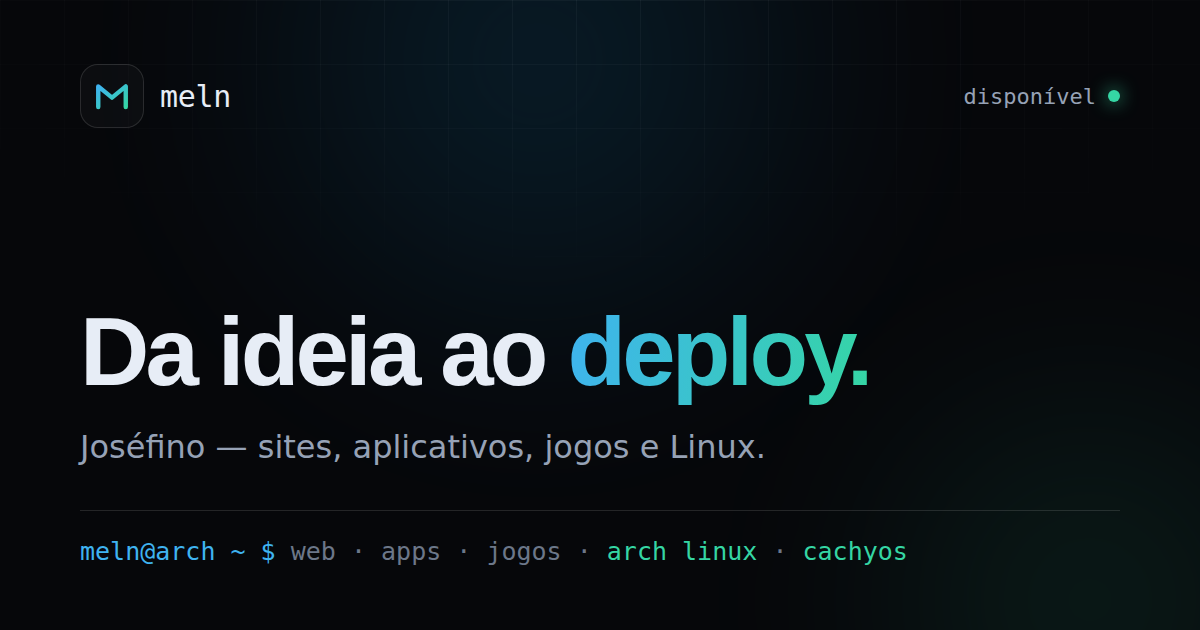
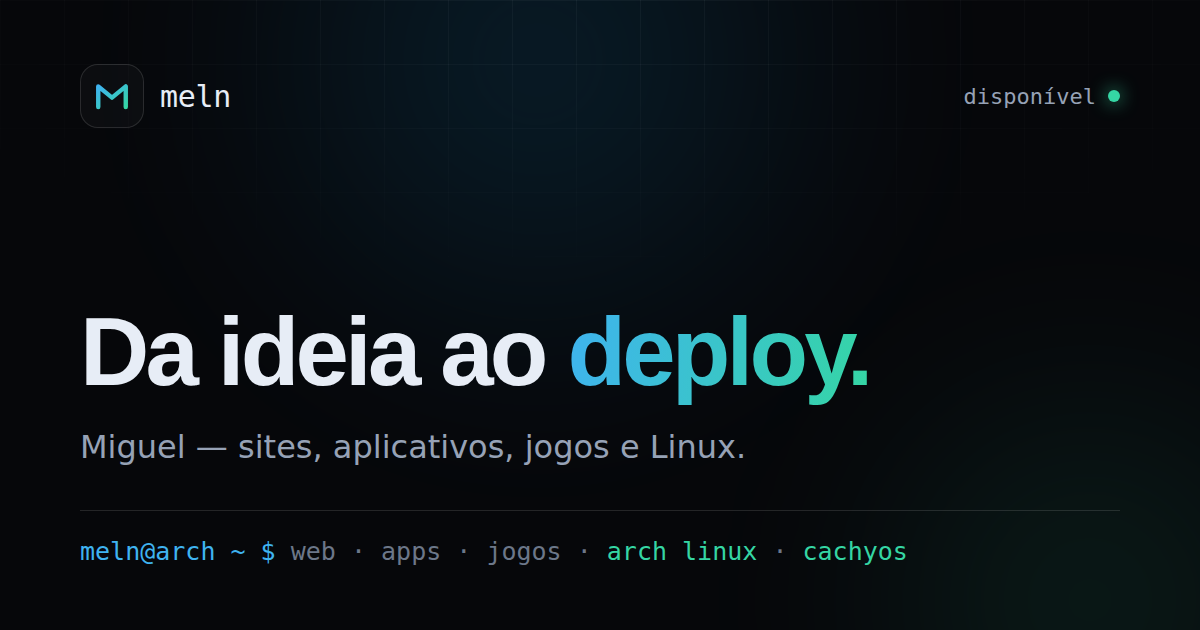
Trocar o nome apresentado para Miguel
Substitui "Joséfino" por "Miguel" em todo o texto visível e nos
metadados: title, description, author, Open Graph/Twitter, JSON-LD,
bloco de identidade do hero, terminal, rodapé e mensagem inicial do
WhatsApp. A imagem de partilha (assets/og-image.png) foi gerada de novo
com o nome novo. O endereço de e-mail fica como está.

Claude-Session: https://claude.ai/code/session_01Gn34ECZL4nzcdZR946JS7z

Changed region(s): [[0.0617, 0.6937, 0.6475, 0.754]]

diff --git a/index.html b/index.html
@@ -4,9 +4,9 @@
 <meta charset="utf-8">
 <meta name="viewport" content="width=device-width, initial-scale=1">
 
-<title>Joséfino (Meln) — Desenvolvedor Web, Apps e Jogos</title>
-<meta name="description" content="Joséfino (Meln) — desenvolvedor de sites, aplicativos e jogos, com experiência em Linux baseado em Arch (Arch Linux e CachyOS). Veja os projetos e fale comigo por WhatsApp ou e-mail.">
-<meta name="author" content="Joséfino (Meln)">
+<title>Miguel (Meln) — Desenvolvedor Web, Apps e Jogos</title>
+<meta name="description" content="Miguel (Meln) — desenvolvedor de sites, aplicativos e jogos, com experiência em Linux baseado em Arch (Arch Linux e CachyOS). Veja os projetos e fale comigo por WhatsApp ou e-mail.">
+<meta name="author" content="Miguel (Meln)">
 <meta name="theme-color" content="#06070A">
 <meta name="color-scheme" content="dark">
 
@@ -17,7 +17,7 @@
 <meta property="og:type" content="website">
 <meta property="og:locale" content="pt_PT">
 <meta property="og:site_name" content="Meln — Portfólio">
-<meta property="og:title" content="Joséfino (Meln) — Desenvolvedor Web, Apps e Jogos">
+<meta property="og:title" content="Miguel (Meln) — Desenvolvedor Web, Apps e Jogos">
 <meta property="og:description" content="Sites, aplicativos, jogos e sistemas Linux baseados em Arch. Da ideia ao deploy.">
 <meta property="og:url" content="https://mello13256.github.io/VOU/">
 <meta property="og:image" content="https://mello13256.github.io/VOU/assets/og-image.png">
@@ -25,7 +25,7 @@
 <meta property="og:image:height" content="630">
 <meta property="og:image:alt" content="Meln — desenvolvedor web, apps e jogos">
 <meta name="twitter:card" content="summary_large_image">
-<meta name="twitter:title" content="Joséfino (Meln) — Desenvolvedor Web, Apps e Jogos">
+<meta name="twitter:title" content="Miguel (Meln) — Desenvolvedor Web, Apps e Jogos">
 <meta name="twitter:description" content="Sites, aplicativos, jogos e sistemas Linux baseados em Arch. Da ideia ao deploy.">
 <meta name="twitter:image" content="https://mello13256.github.io/VOU/assets/og-image.png">
 
@@ -46,7 +46,7 @@
 {
   "@context": "https://schema.org",
   "@type": "Person",
-  "name": "Joséfino",
+  "name": "Miguel",
   "alternateName": "Meln",
   "jobTitle": "Desenvolvedor",
   "email": "mailto:josefino13256@gmail.com",
@@ -111,7 +111,7 @@
       <div class="hero__text">
         <div class="hero__identity reveal">
           <p class="hero__name grad">Meln</p>
-          <p class="hero__role">Joséfino — Desenvolvedor Web, Apps e Jogos</p>
+          <p class="hero__role">Miguel — Desenvolvedor Web, Apps e Jogos</p>
         </div>
 
         <h1 class="hero__title reveal">
@@ -135,7 +135,7 @@
       </div>
 
       <div class="hero__terminal reveal">
-        <div class="terminal" role="img" aria-label="Terminal: meln@arch. whoami — Joséfino, desenvolvedor. Stack: web, apps, jogos, Linux. Estado: disponível para novos projetos.">
+        <div class="terminal" role="img" aria-label="Terminal: meln@arch. whoami — Miguel, desenvolvedor. Stack: web, apps, jogos, Linux. Estado: disponível para novos projetos.">
           <div class="terminal__bar">
             <span class="terminal__dots" aria-hidden="true"><i></i><i></i><i></i></span>
             <span class="terminal__title">meln@arch — zsh</span>
@@ -460,7 +460,7 @@
           <h3 class="card__title card__title--sm">WhatsApp</h3>
           <p class="card__value">+351 910 052 169</p>
           <div class="card__actions">
-            <a class="btn btn--primary btn--small" href="https://wa.me/351910052169?text=Ol%C3%A1%2C%20Jos%C3%A9fino!%20Vi%20o%20seu%20portf%C3%B3lio%20e%20queria%20falar%20sobre%20um%20projeto." target="_blank" rel="noopener noreferrer">
+            <a class="btn btn--primary btn--small" href="https://wa.me/351910052169?text=Ol%C3%A1%2C%20Miguel!%20Vi%20o%20seu%20portf%C3%B3lio%20e%20queria%20falar%20sobre%20um%20projeto." target="_blank" rel="noopener noreferrer">
               Abrir conversa <span aria-hidden="true">→</span>
               <span class="sr-only">(abre numa nova aba)</span>
             </a>
@@ -496,7 +496,7 @@
   <div class="container site-footer__inner">
     <div class="site-footer__brand">
       <span class="brand__text">meln<span class="brand__caret">_</span></span>
-      <p>Joséfino — desenvolvedor web, apps e jogos.</p>
+      <p>Miguel — desenvolvedor web, apps e jogos.</p>
     </div>
 
     <nav class="site-footer__nav" aria-label="Navegação do rodapé">
@@ -513,7 +513,7 @@
     </div>
   </div>
   <div class="container site-footer__base">
-    <p>© <span id="year">2026</span> Joséfino. Feito à mão com HTML, CSS e JavaScript.</p>
+    <p>© <span id="year">2026</span> Miguel. Feito à mão com HTML, CSS e JavaScript.</p>
     <p class="site-footer__sig">construído em Arch Linux</p>
   </div>
 </footer>

diff --git a/js/main.js b/js/main.js
@@ -110,7 +110,7 @@
   var terminal = document.getElementById('terminal-body');
 
   var session = [
-    { cmd: 'whoami', out: 'joséfino "meln" — desenvolvedor' },
+    { cmd: 'whoami', out: 'miguel "meln" — desenvolvedor' },
     { cmd: 'cat stack.txt', out: 'web · apps · jogos · linux' },
     { cmd: 'uname -o', out: 'arch linux · cachyos' },
     { cmd: 'status', out: '● disponível para novos projetos', ok: true }

diff --git a/README.md b/README.md
@@ -1,4 +1,4 @@
-# Portfólio — Joséfino (Meln)
+# Portfólio — Miguel (Meln)
 
 Site pessoal e página de serviços: desenvolvimento web, aplicativos, jogos e Linux
 (Arch Linux / CachyOS).
